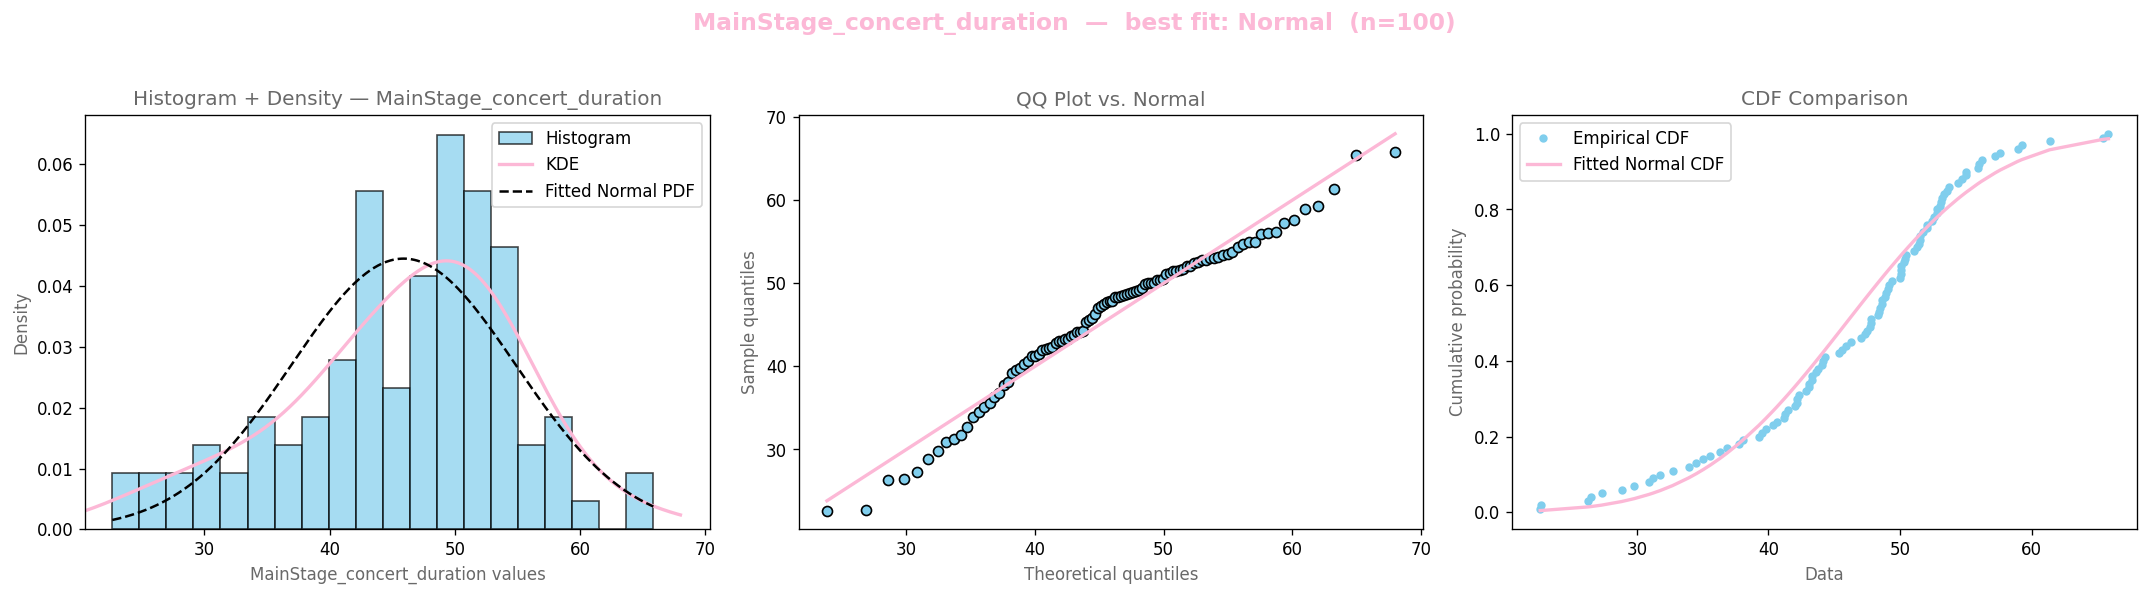
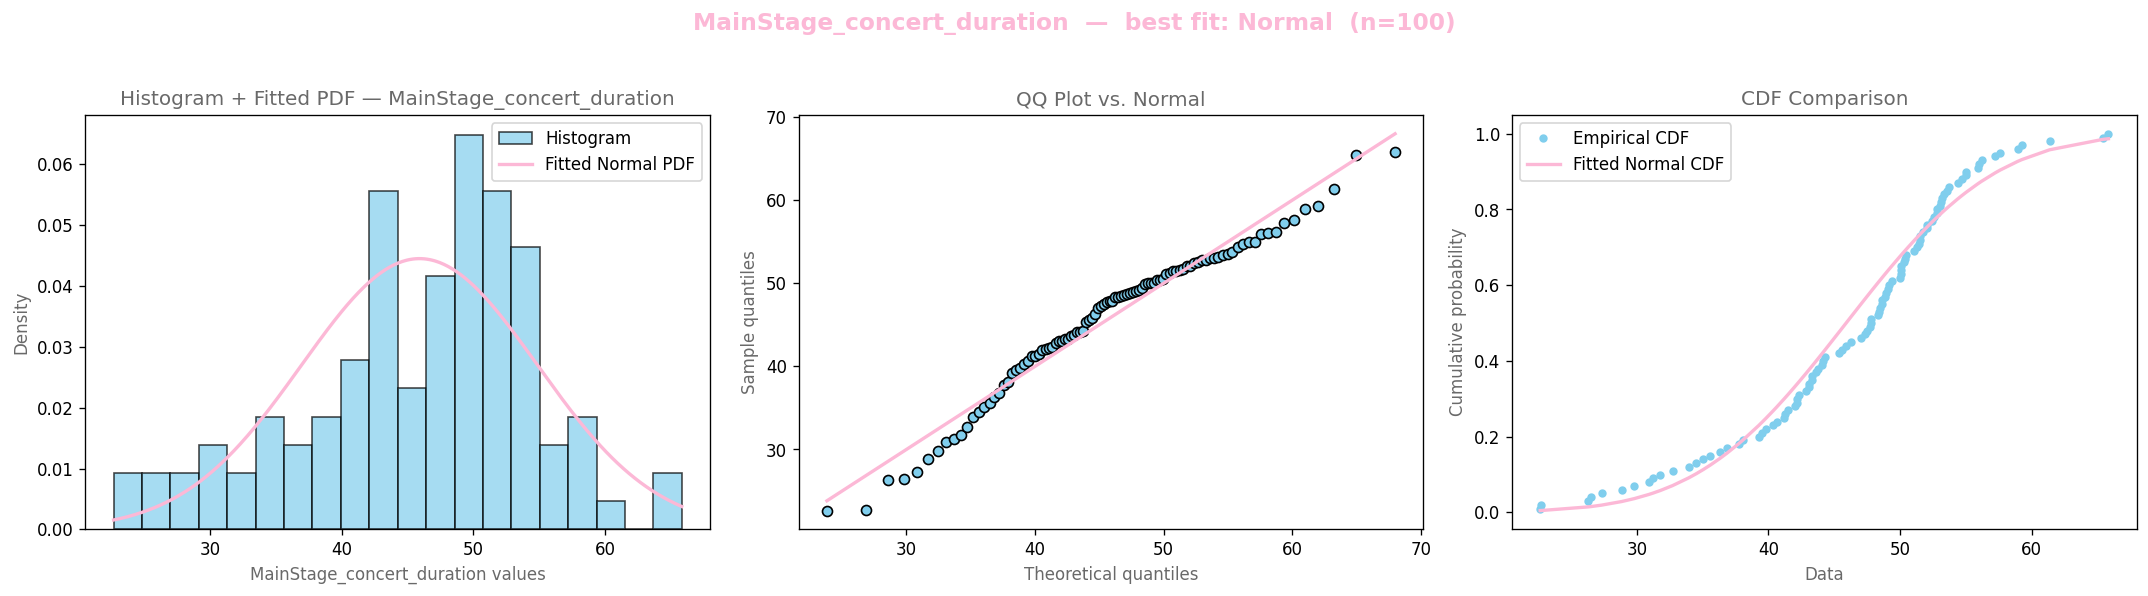
Remove KDE line from histogram panel
The histogram panel now shows only the empirical histogram bars and
the theoretical PDF of the chosen distribution. The KDE smoother was
visually redundant with the fitted PDF and made the plot busier than
it needed to be. The PDF takes over the pink colour previously used
by the KDE.

diff --git a/plot_distributions.py b/plot_distributions.py
@@ -86,25 +86,20 @@ def _theoretical_pdf_curve(dist_name: str, params: dict,
 
 def histogram_with_density(data: np.ndarray, label: str,
                             dist_name: str, params: dict, ax) -> None:
-    """Histogram + empirical KDE + theoretical PDF of the chosen fit."""
-    # Empirical histogram (density-normalised so it aligns with PDFs)
+    """Histogram + theoretical PDF of the chosen fit."""
+    # Empirical histogram (density-normalised so it aligns with the PDF)
     ax.hist(data, bins=20, density=True, edgecolor='black', alpha=0.7,
             label='Histogram', color=UNIFIED_BLUE)
 
-    # Empirical KDE (no pandas dependency — Gaussian kernel via scipy)
-    from scipy.stats import gaussian_kde
-    kde = gaussian_kde(data, bw_method=0.5)
     x_lo, x_hi = float(np.min(data)), float(np.max(data))
     pad = 0.05 * (x_hi - x_lo)
-    xs = np.linspace(max(0.0, x_lo - pad), x_hi + pad, 400)
-    ax.plot(xs, kde(xs), color=UNIFIED_PINK, lw=2, label='KDE')
 
     # Theoretical PDF of the fitted distribution
     xs_t, ys_t = _theoretical_pdf_curve(dist_name, params, x_lo, x_hi)
-    ax.plot(xs_t, ys_t, '--', color='black', lw=1.5,
+    ax.plot(xs_t, ys_t, color=UNIFIED_PINK, lw=2,
             label=f'Fitted {dist_name} PDF')
 
-    ax.set_title(f"Histogram + Density — {label}", color=TEXT_COLOR)
+    ax.set_title(f"Histogram + Fitted PDF — {label}", color=TEXT_COLOR)
     ax.set_xlabel(f"{label} values", color=TEXT_COLOR)
     ax.set_ylabel('Density', color=TEXT_COLOR)
     ax.set_xlim(left=max(0.0, x_lo - pad))